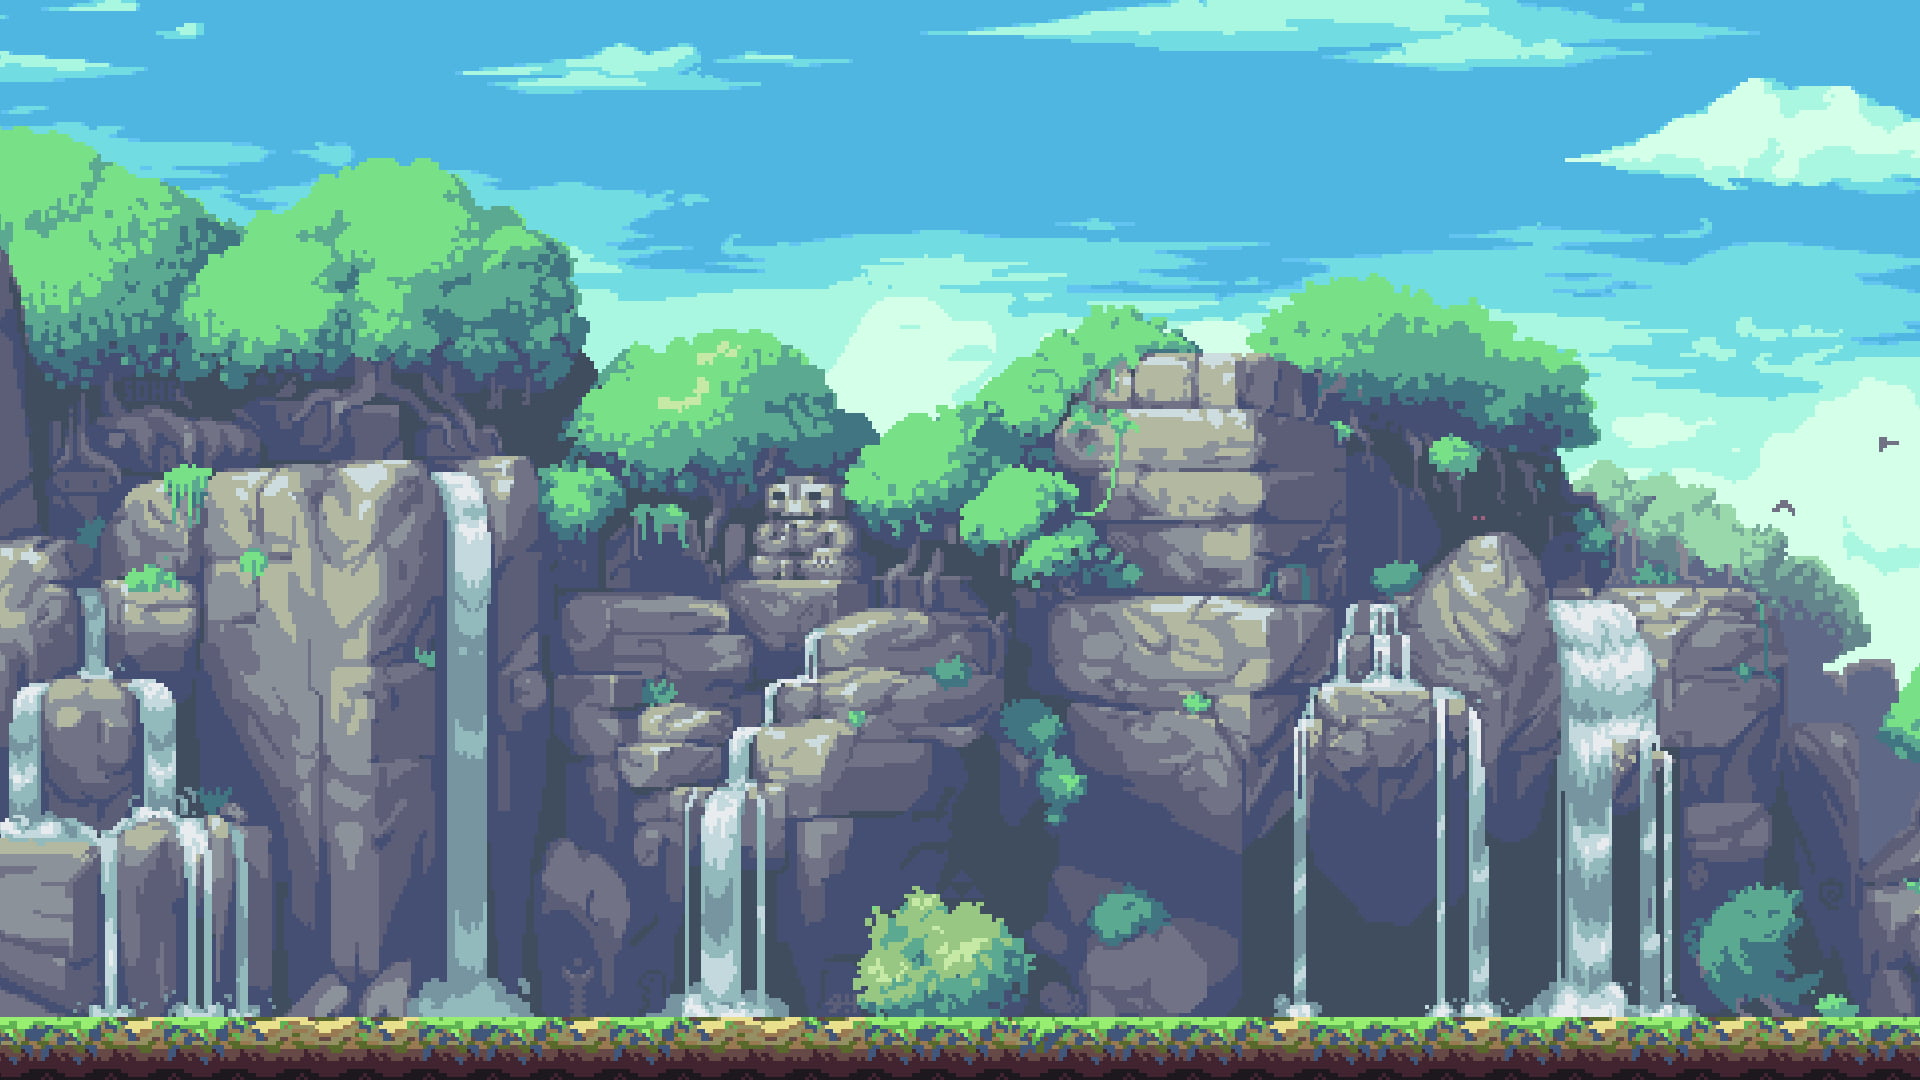
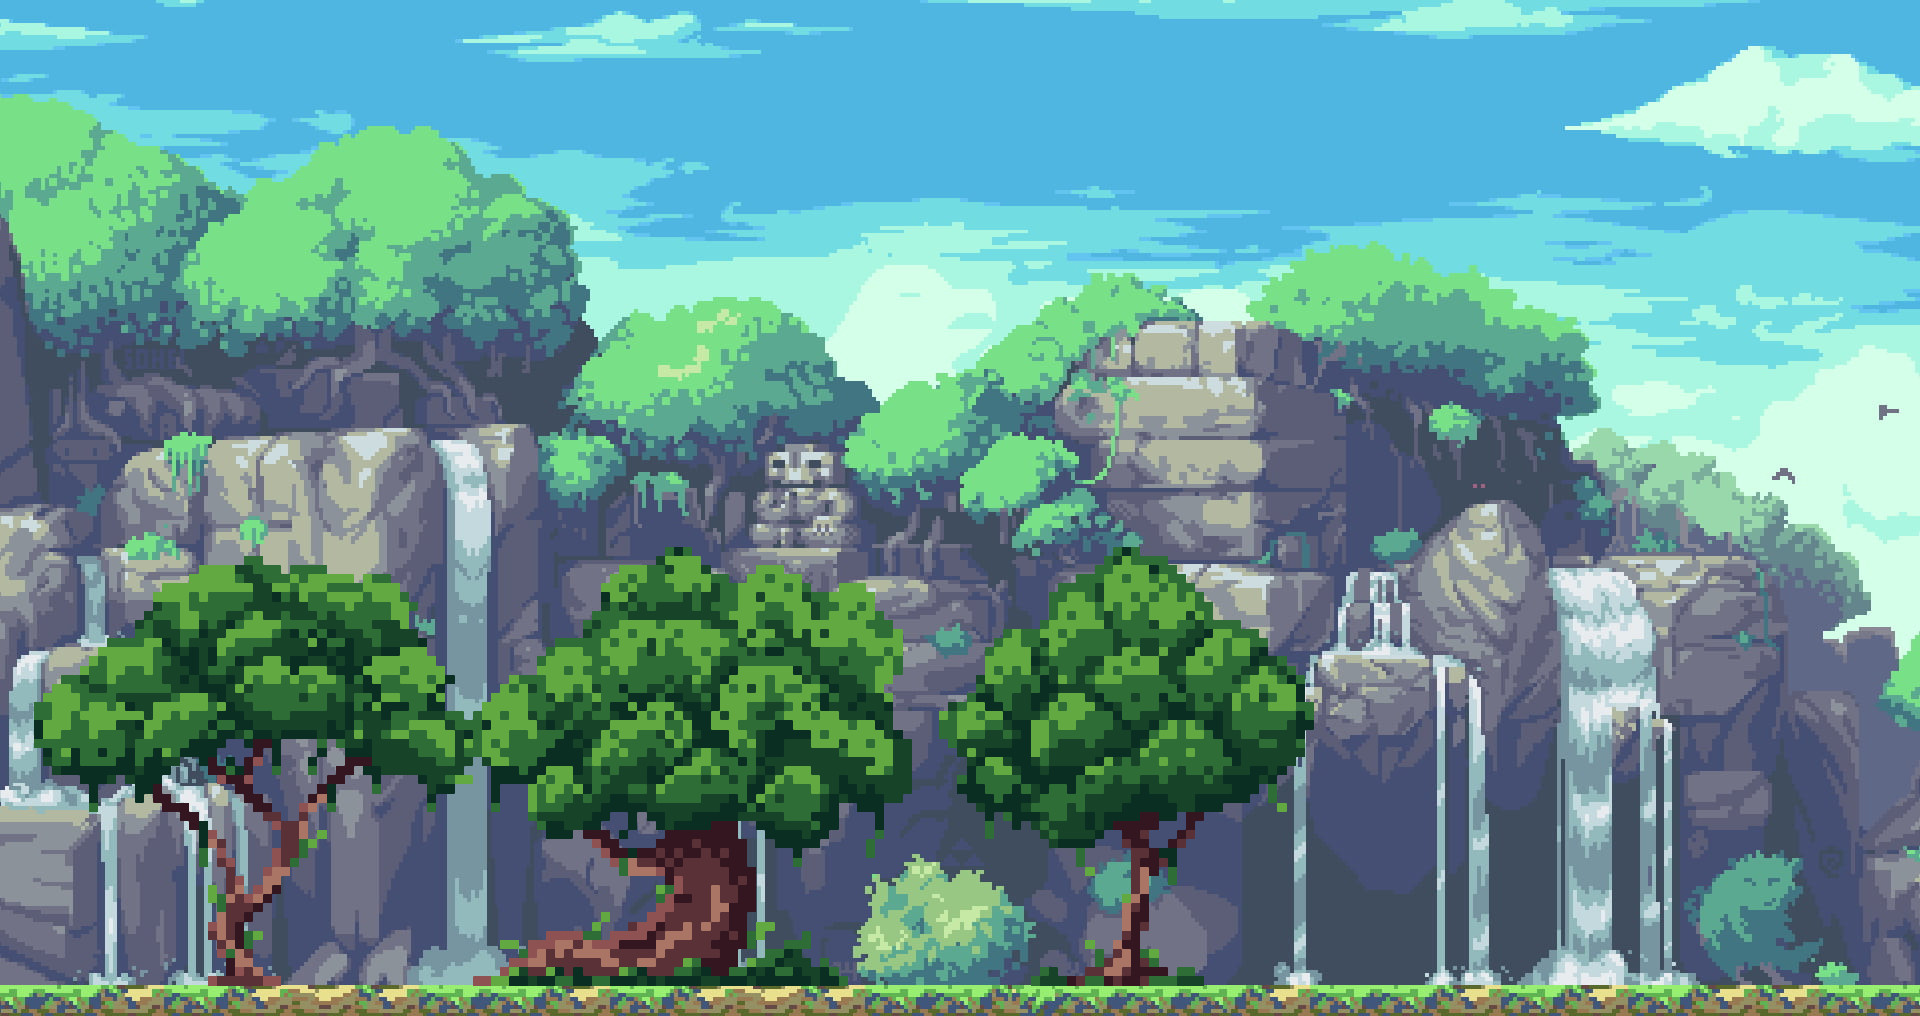
Second Level

diff --git a/Sources/Level_Two.cpp b/Sources/Level_Two.cpp
@@ -1,0 +1,57 @@
+#include "Main.h"
+
+std::vector<Object> collidableObjects2;
+
+void SFMLApp::renderLevelTwo()
+{
+
+    std::cout << hostCharacter->getPositionY() << std::endl;
+    if (hostCharacter->getPositionY() >= 1000) 
+        StateChange = 2;
+
+    if (Socket_Enabled == false)
+    {
+        if (hostCharacter->getCharacterType() == 1)
+        {
+            window.draw(tempPlayerASprite);
+             tempPlayerASprite.setPosition(hostCharacter->getPosition());
+             moveMents(collidableObjects2, tempPlayerASprite);
+            
+        }
+        if (hostCharacter->getCharacterType() == 2)
+        {
+            window.draw(tempPlayerBSprite);
+             tempPlayerBSprite.setPosition(hostCharacter->getPosition());
+             moveMents(collidableObjects2, tempPlayerBSprite);
+        }
+
+    }
+    else
+    {
+        if (hostCharacter->getCharacterType() == 1)
+        {
+            window.draw(tempPlayerASprite);
+             tempPlayerASprite.setPosition(hostCharacter->getPosition());
+             if (hostCharacter->isHost()) moveMents(collidableObjects2, tempPlayerASprite);
+        }
+        else if (hostCharacter->getCharacterType() == 2)
+        {
+            window.draw(tempPlayerBSprite);
+             tempPlayerBSprite.setPosition(hostCharacter->getPosition());
+             if (hostCharacter->isHost()) moveMents(collidableObjects2, tempPlayerBSprite);
+        }
+
+        if (clientCharacter->getCharacterType() == 1)
+        {
+            window.draw(tempPlayerASprite);
+             tempPlayerASprite.setPosition(clientCharacter->getPosition());
+             if (clientCharacter->isHost()) moveMents(collidableObjects2, tempPlayerASprite);
+        }
+        else if (clientCharacter->getCharacterType() == 2)
+        {
+            window.draw(tempPlayerBSprite);
+             tempPlayerBSprite.setPosition(clientCharacter->getPosition());
+             if (clientCharacter->isHost()) moveMents(collidableObjects2, tempPlayerBSprite);
+        }
+    }
+}

diff --git a/Sources/Level_One.cpp b/Sources/Level_One.cpp
@@ -2,19 +2,19 @@
 
 std::vector<Object> collidableObjects;
 static bool isInitialized = false;
-int var = -400;
+int var = -600;
 
-void SFMLApp::renderGame()
+void SFMLApp::renderLevelOne()
 {
-
-    
 
     if (!isInitialized)
     {
-        Floor.setPosition(0, 1025);
-        Floor2.setPosition(450, 800);
+        Floor.setPosition(0, 1000);
+        Floor2.setPosition(1450, 750);
+        Floor3.setPosition(1050, 450);
 
         Sky.setPosition(0,0);
+        Trees.setPosition(0, 40);
 
         Background1.setPosition(0,700);
         Background1.toggleTileMode();
@@ -23,24 +23,35 @@ void SFMLApp::renderGame()
         isInitialized = true;
     }
 
-    if (var < 1800) {
+    if (var < 2000) {
         var += 1; // Increase the variable by 100
     }
     else {
-        var = -400; // Reset the variable when it reaches 1400
+        var = -600; // Reset the variable when it reaches 1400
+    }
+
+    std::cout << hostCharacter->getPositionY() << std::endl;
+    sf::Vector2f tempVector(0.0f, 1000.0f);
+    if (hostCharacter->getPositionY() <= -20)
+    {
+        hostCharacter->setPosition(hostCharacter->getPosition() + tempVector);
+        StateChange = 3;
     }
 
     cloud1.setPosition(var, sin(var/9)*4 + 20);
 
     Sky.draw(window);
     cloud1.draw(window);
-    Background1.draw(window);
+    //Background1.draw(window);
+    //Trees.draw(window);
 
     Floor.draw(window);
     Floor2.draw(window);
+    Floor3.draw(window);
 
     collidableObjects.push_back(Floor);
     collidableObjects.push_back(Floor2);
+    collidableObjects.push_back(Floor3);
 
     if (Socket_Enabled == false)
     {

diff --git a/Sources/Main.h b/Sources/Main.h
@@ -28,7 +28,8 @@ public:
     {
         MAIN_MENU,
         LEVEL_SELECT,
-        PLAYING
+        LEVEL_ONE,
+        LEVEL_TWO
     };
 
     // Current state of the application
@@ -58,11 +59,12 @@ private:
     // Rendering methods for different states
     void renderMainMenu();
     void renderLevelMenu();
-    void renderGame();
+    void renderLevelOne();
+    void renderLevelTwo();
 
     void  handleMainMenuEvents(sf::Event event);
     void  handleLevelSelectEvents(sf::Event event);
-    void  handlePlayingEvents(sf::Event event);
+    void  handleLevelEvents(sf::Event event);
 
     // Sprites and Textures
     sf::Texture cursorTexture;
@@ -95,11 +97,13 @@ private:
     sf::Text Exitw;
 
 
+
     // Loop variables
     bool isRunning;
     bool mainMenuState;
-    
+
 };
+
 
 // Objects and Backgrounds
 extern Object Floor;
@@ -108,6 +112,7 @@ extern Object Floor3;
 extern Object Sky;
 extern Object cloud1;
 extern Object Background1;
+extern Object Trees;
 
 
 extern bool Socket_Enabled;

diff --git a/Sources/Render.cpp b/Sources/Render.cpp
@@ -13,8 +13,11 @@ void SFMLApp::render()
     case State::LEVEL_SELECT:
         renderLevelMenu();
         break;
-    case State::PLAYING:
-        renderGame();
+    case State::LEVEL_ONE:
+        renderLevelOne();
+        break;
+    case State::LEVEL_TWO:
+        renderLevelTwo();
         break;
     }
 
@@ -24,7 +27,11 @@ void SFMLApp::render()
     }
     else if (StateChange == 2)
     {
-        currentState = State::PLAYING;
+        currentState = State::LEVEL_ONE;
+    }
+    else if (StateChange == 3)
+    {
+        currentState = State::LEVEL_TWO;
     }
     else 
     {

diff --git a/Sources/processEvents.cpp b/Sources/processEvents.cpp
@@ -29,9 +29,14 @@ void SFMLApp::processEvents()
             handleLevelSelectEvents(event);
 
             break;
-        case State::PLAYING:
+        case State::LEVEL_ONE:
 
-            handlePlayingEvents(event);
+            handleLevelEvents(event);
+
+            break;
+        case State::LEVEL_TWO:
+
+            handleLevelEvents(event);
 
             break;
         }

diff --git a/Sources/ResourceManager.cpp b/Sources/ResourceManager.cpp
@@ -6,9 +6,12 @@ Object Floor3("Resources/Terrain.png");
 Object Sky("Resources/Sky.jpg");
 Object cloud1("Resources/cloud1.png");
 Object Background1("Resources/BackgroundGround.png");
+Object Trees("Resources/trees.png");
 
 void SFMLApp::loadResources()
 {
+
+
     // Load the cursor texture
     if (!cursorTexture.loadFromFile("Resources/cursor.png"))
     {

diff --git a/Sources/Update.cpp b/Sources/Update.cpp
@@ -14,7 +14,10 @@ void SFMLApp::update(sf::Window& window)
     case State::LEVEL_SELECT:
         
         break;
-    case State::PLAYING:
+    case State::LEVEL_ONE:
+        inputManager.processInput(window);
+
+    case State::LEVEL_TWO:
         inputManager.processInput(window);
         
         break;

diff --git a/Sources/LevelEvents.cpp b/Sources/LevelEvents.cpp
@@ -2,7 +2,7 @@
 
 
 // Handle PLAYING state events
-void SFMLApp::handlePlayingEvents(sf::Event event)
+void SFMLApp::handleLevelEvents(sf::Event event)
 {   
 
     if (event.type == sf::Event::KeyPressed && event.key.code == sf::Keyboard::Escape)

diff --git a/Sources/Main.cpp b/Sources/Main.cpp
@@ -49,6 +49,7 @@ SFMLApp::SFMLApp()
     initWindow();
     loadResources();
 
+
     isGrounded = false; 
     isRunning = true;
     currentState = State::MAIN_MENU;    // Begins the program at the Main Menu State.

diff --git a/Sources/Object.h b/Sources/Object.h
@@ -4,6 +4,7 @@
 class Object
 {
 public:
+
     Object(const std::string& imagePath)
         : horizontalRepeats(1), verticalRepeats(1), isTileMode(false)
     {
